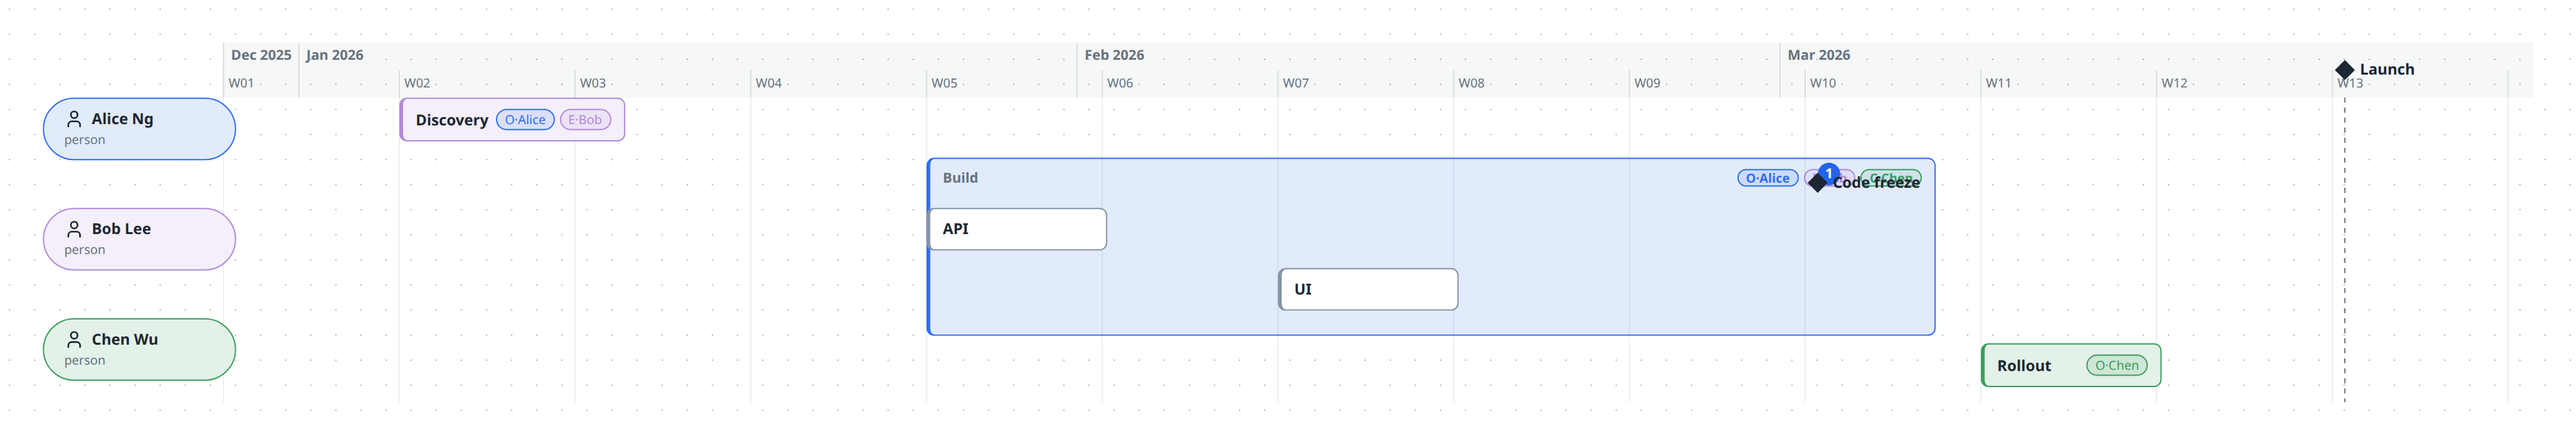
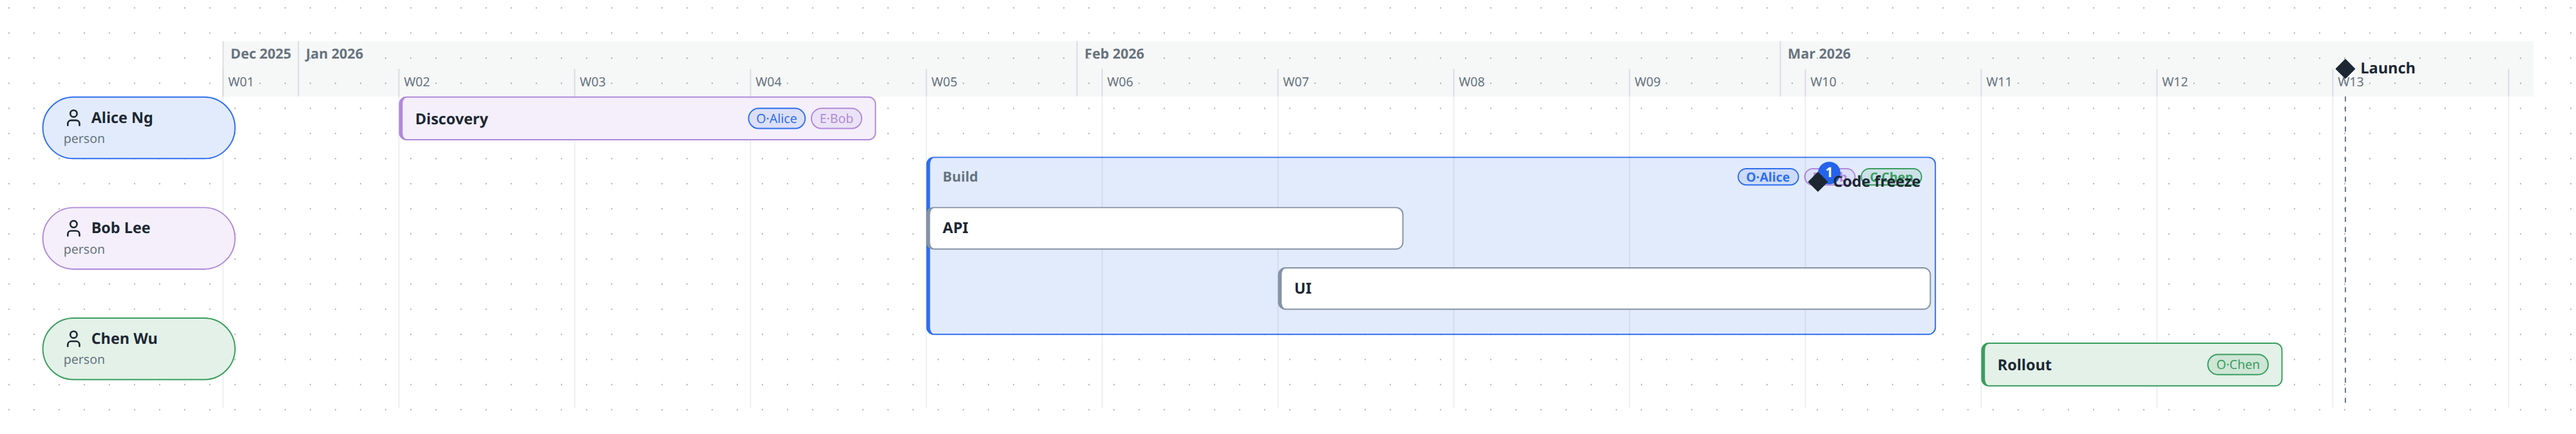
fix(renderer): a childless plan zone is as wide as its dates

diff --git a/packages/renderer/src/box-size.ts b/packages/renderer/src/box-size.ts
@@ -1,4 +1,4 @@
-import { FISHBONE_TYPES, runsToPlainText, type DiagramNode, type FontScale, type ViewNode } from '@diagc/core';
+import { FISHBONE_TYPES, PLAN_ZONE_TYPE, runsToPlainText, type DiagramNode, type FontScale, type ViewNode } from '@diagc/core';
 import type { Registry, ShapeId, TypeStyle } from './registry';
 import type { SizeHint } from './layout-graph';
 import { typeSubtitle } from './type-subtitle';
@@ -25,8 +25,12 @@ export const FORCED_SIZE_SHAPES: ReadonlySet<string> = new Set([
 export const ACTIVITY_CHROME_TYPES: ReadonlySet<string> = new Set(['activity-frame', 'activity-lane', 'activity-region']);
 /** leaves a notation's own layout sizes exactly — the head spans the spine, a
  * cause is text on a line whose route ends at the text's edge: a CSS-natural
- * size a few px off would leave the line short of, or into, the text */
-export const LAYOUT_SIZED_TYPES: ReadonlySet<string> = new Set(FISHBONE_TYPES);
+ * size a few px off would leave the line short of, or into, the text. A
+ * childless `plan-zone` belongs here too: its width IS its dates,
+ * `(end − start + 1) × DAY` — that span cannot round-trip through a
+ * CSS-natural, label-hugging width, and the studio's resize reads the drawn
+ * width back into `end`, so the wrapper must carry the layout's width exactly. */
+export const LAYOUT_SIZED_TYPES: ReadonlySet<string> = new Set([...FISHBONE_TYPES, PLAN_ZONE_TYPE]);
 
 /**
  * Deterministic (no-DOM) footprint of an ordinary box node — the branch of

diff --git a/packages/renderer/src/DiagramView.test.tsx b/packages/renderer/src/DiagramView.test.tsx
@@ -2404,4 +2404,16 @@ describe('plan notation', () => {
     expect((await rfNode('m1')).classList.contains('draggable')).toBe(true);
     expect((await rfNode('alice')).classList.contains('draggable')).toBe(false);
   });
+  it('a childless zone is as wide as its dates: the layout sizes it, not its label', async () => {
+    const { container } = render(<DiagramView model={plan()} plane="plan" notation="plan" today="2026-01-20" />);
+    const wrapper = async (id: string) =>
+      waitFor(() => {
+        const el = container.querySelector<HTMLElement>(`.react-flow__node[data-id="${id}"]`);
+        if (el === null || el.style.width === '') throw new Error(`${id} not laid out`);
+        return el;
+      });
+    // dep: 2026-02-02..2026-02-06 inclusive = 5 days; q: 2026-01-05..2026-01-30 = 26 days
+    expect((await wrapper('dep')).style.width).toBe(`${5 * PLAN_LAYOUT.DAY}px`);
+    expect((await wrapper('q')).style.width).toBe(`${26 * PLAN_LAYOUT.DAY}px`);
+  });
 });

diff --git a/packages/renderer/src/box-size.test.ts b/packages/renderer/src/box-size.test.ts
@@ -203,7 +203,7 @@ describe('withBoxSizes', () => {
 });
 
 describe('LAYOUT_SIZED_TYPES', () => {
-  it('names exactly the fishbone types, which their layout sizes', () => {
-    expect([...LAYOUT_SIZED_TYPES].sort()).toEqual(['fb-category', 'fb-cause', 'fb-effect']);
+  it('names exactly the fishbone types and the plan zone, which their layout sizes', () => {
+    expect([...LAYOUT_SIZED_TYPES].sort()).toEqual(['fb-category', 'fb-cause', 'fb-effect', 'plan-zone']);
   });
 });
